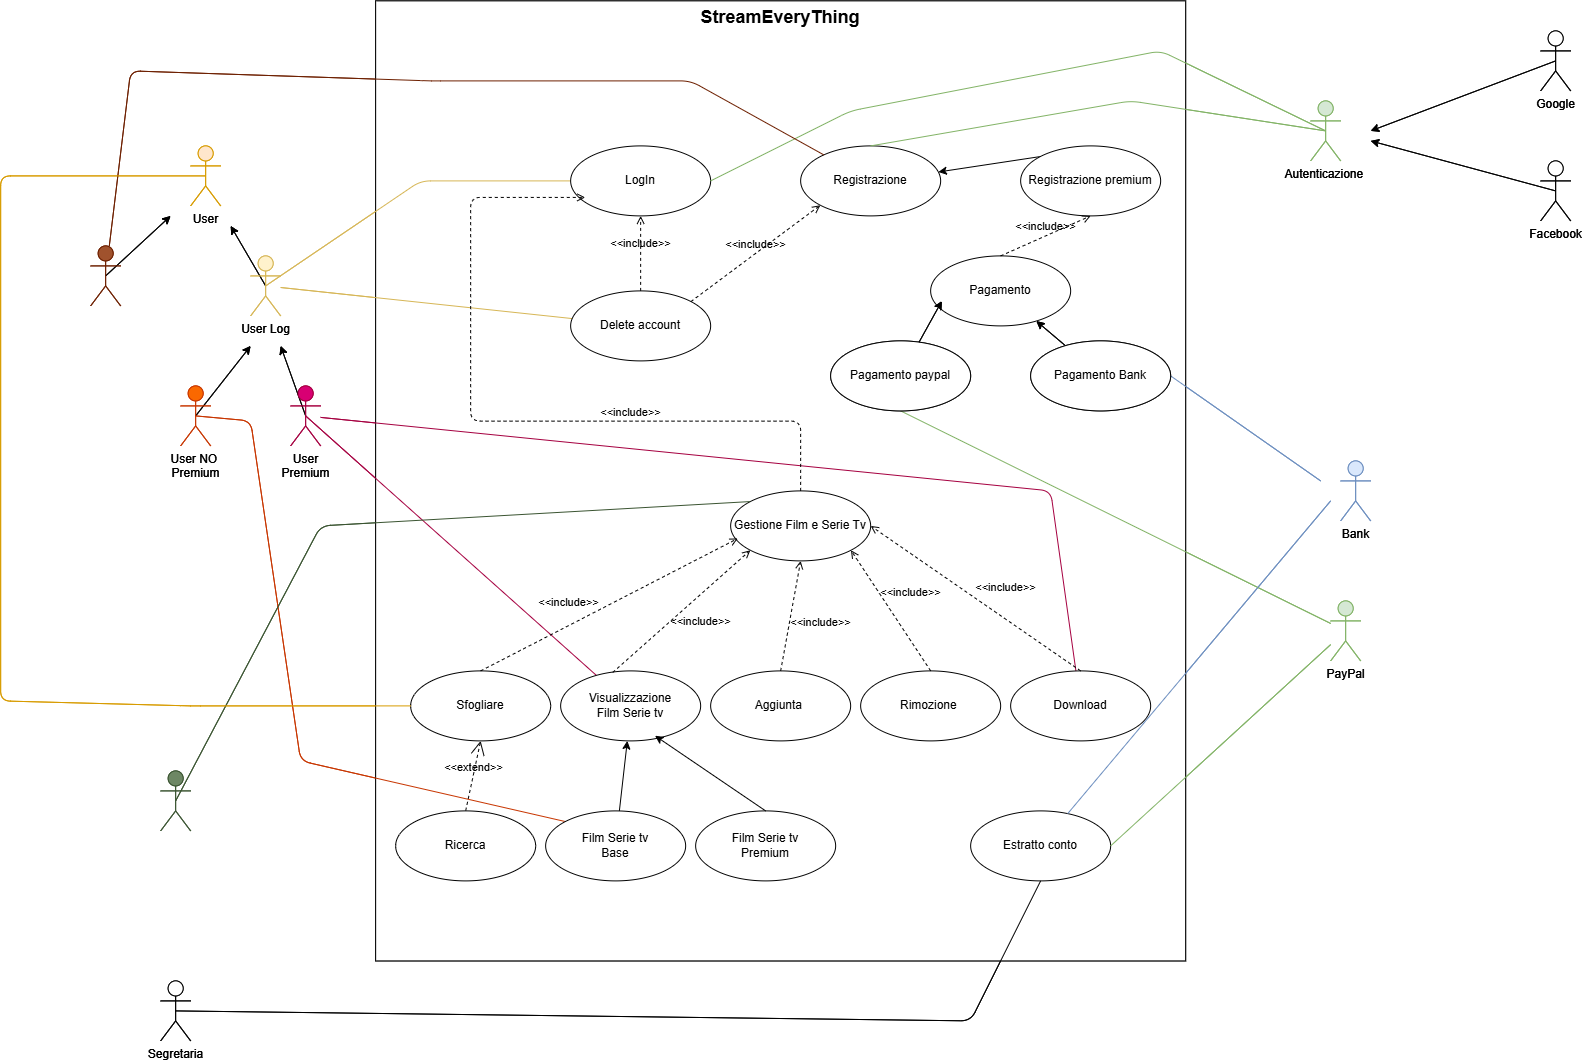
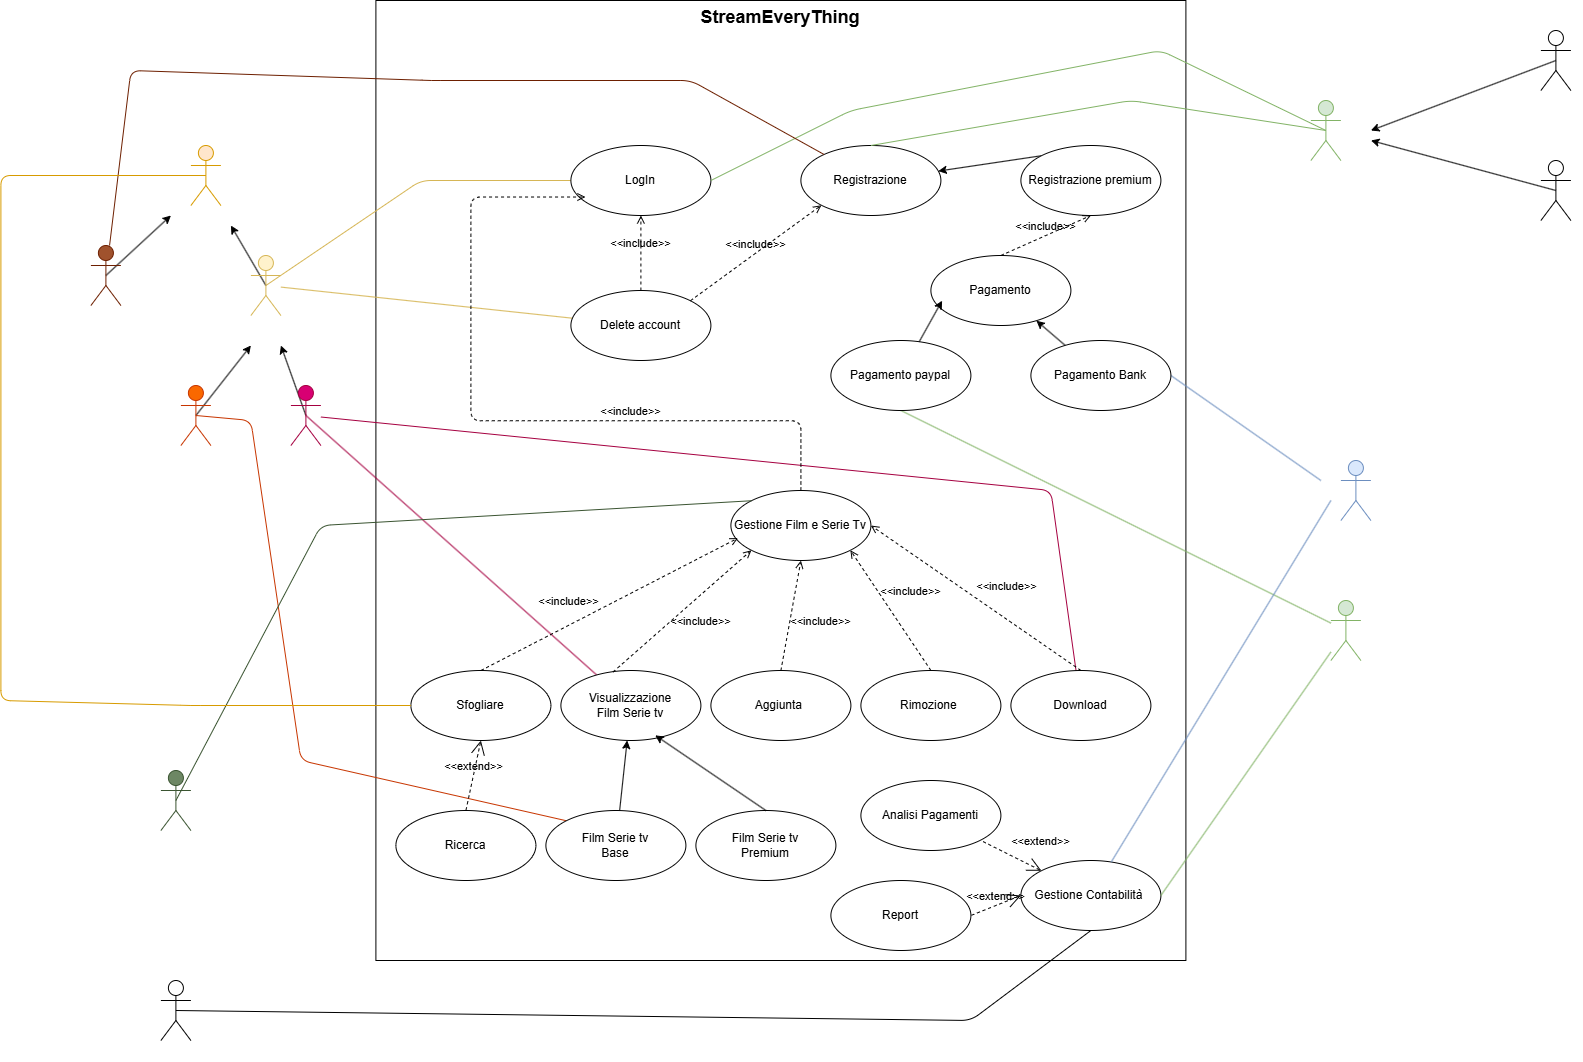
Finish

diff --git a/UCtextual.md b/UCtextual.md
@@ -18,7 +18,9 @@
 ### Sequenza principale:
     1. L'utente richiede di accedere al sistema.
     2. Il sistema visualizza la pagina di autenticazione.
-<!-- Metti immagine per login -->
+
+![LogPage](./Logpage.png)
+
     3. L'utente inserisce le credenziali.
     4. Il sistema verifica che siano corrette.
     5. Se le credenziali sono corrette:
@@ -54,7 +56,9 @@
 
 ### Sequenza principale:
     1. Il sistema mostra la pagina iniziale
-<!-- Metti immagine pagina web -->
+
+![DownloadPage](./Download.png)
+    
     2. l'utente sceglie il contentuo da scaricare
     3. Il sistema verifica che l'utente sia collegato.
     4. Se l'utente è collegato:
@@ -65,12 +69,13 @@
                     4.2.2.1 Il sistema permette il download.
             4.2.3 Altrimenti:
                     4.2.3.1 Richiede di effettuare il pagamento.
-<!-- Metti immagine per pagamanto -->
         4.3 Altrimenti:
             4.3.1 Richiede di passare al piano premium.
     5. Altrimenti:
         5.1 Richiede di effettuare il login.
-<!-- Rimetti immagine per pagina login -->
+        
+![LogPage](./Logpage.png)
+
 
 **Post-condizioni**: L'utente avrà il contenuto all'interno della propria libreria e disponibile offline (o *online*, a seconda delle specifiche).
 
